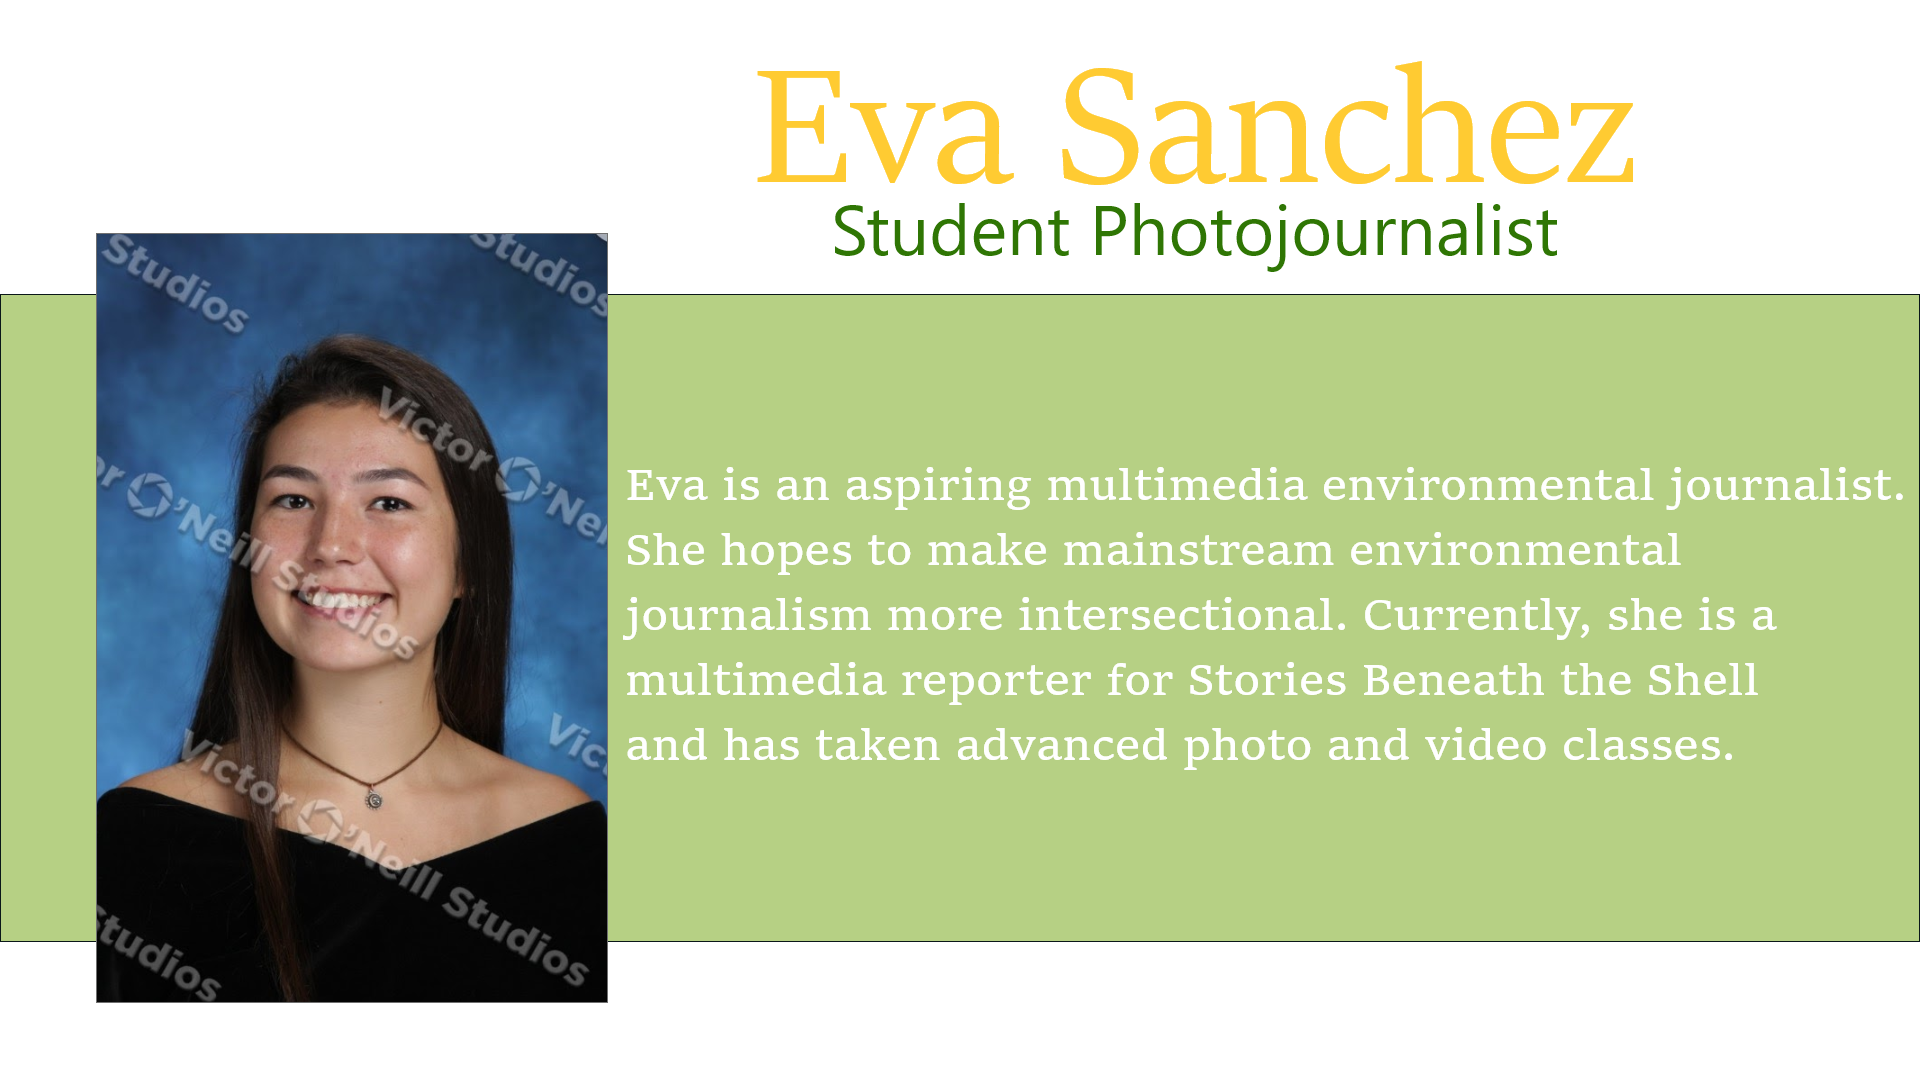
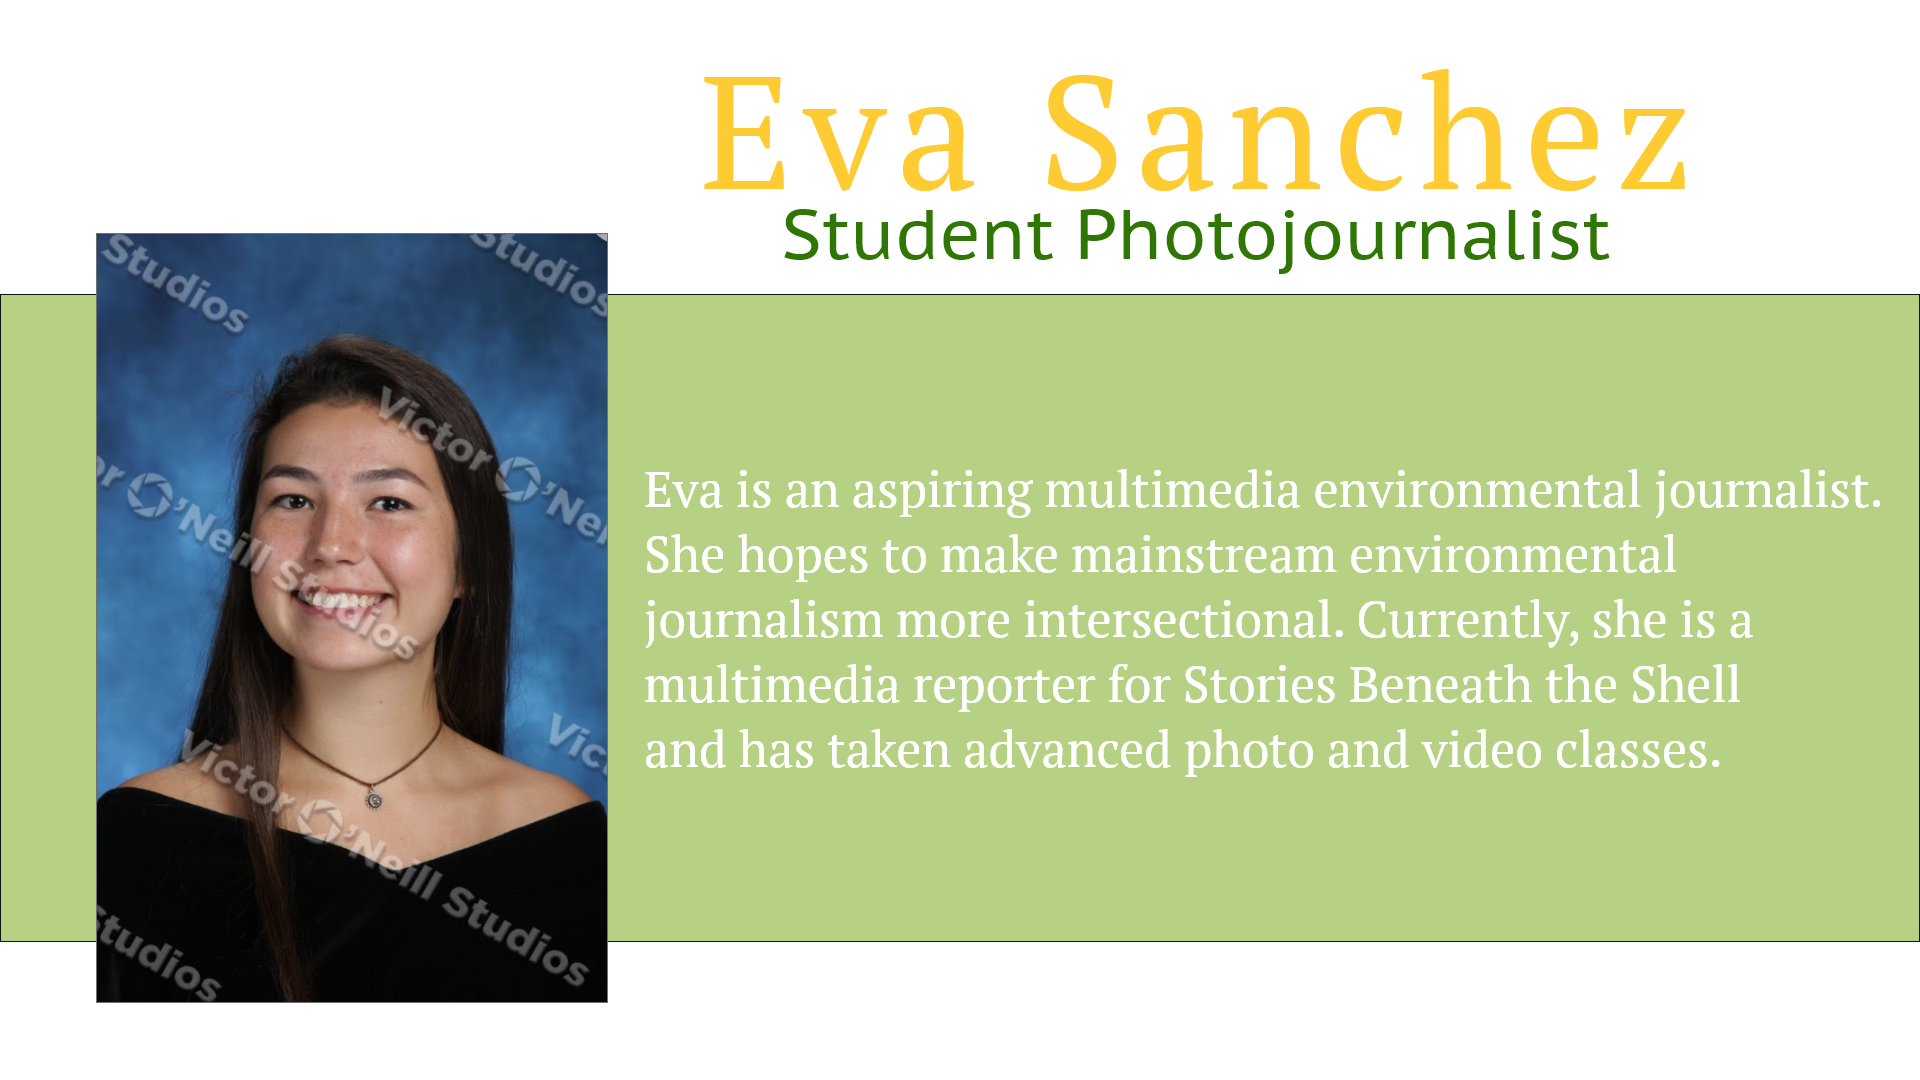
fonts and xd

Changed region(s): [[0.3125, 0.4278, 1.0, 0.7333], [0.375, 0.0611, 0.875, 0.2444]]

diff --git a/resume/eva-sanchez-resume.html/eva-sanchez-resume.html b/resume/eva-sanchez-resume.html/eva-sanchez-resume.html
@@ -11,6 +11,12 @@
 
 <link rel="stylesheet" type="text/css" href="style.css">
 
+<!--Fonts-->
+<link rel="preconnect" href="https://fonts.gstatic.com">
+
+<link href="https://fonts.googleapis.com/css2?family=PT+Serif&display=swap" rel="stylesheet">
+<link href="https://fonts.googleapis.com/css2?family=PT+Sans&family=PT+Serif&display=swap" rel="stylesheet">
+<!--End fonts-->
   </head>
 
   <body>
@@ -23,6 +29,9 @@
 
       <div class="collapse navbar-collapse" id="navbarSupportedContent">
         <ul class="navbar-nav mr-auto">
+          <li class="nav-item active">
+            <a class="nav-link" href="#">Education <span class="sr-only">(current)</span></a>
+          </li>
           <li class="nav-item active">
             <a class="nav-link" href="#">Experience <span class="sr-only">(current)</span></a>
           </li>
@@ -46,6 +55,67 @@
 <!--header and image -->
   <center><img src="Teeth.jpg" alt="Alligator teeth"  width="90%"></center>
 
+<!--XD-->
+
   <img src="eva.png" alt="My intro"  width="100%">
+
+<!--Education-->
+  <div class="sectionheader">Education:</div>
+  <div id="degrees">
+    <ul>
+      <li>Bachelor of Arts, Journalism from the University of Maryland - Expected Graduation: May 2022
+    </ul>
+  </div>
+
+
+  <div class="sectionheader">Experience:</div>
+    <div class="jobtitle">Show Host</div>
+      <div class="organization">WMUC Radio Station</div>
+        <div class="date">September 2018-Present</div>
+    <div class="description">
+      <ul>
+        <li>Broadcast an hour long news and music radio show every week (Local Girls Ruin Everything Wed 10pm)</li>
+        <li>Research news events and interesting topics for show, sources are credible and accurate</li>
+        <li>Manage shows social media, engage with fans and send out announcements about station related events</li>
+  </ul>
+  </div>
+      </ul>
+
+    <div class="jobtitle">Staff Writer</div>
+      <div class="organization">College Magazine</div>
+        <div class="date">October 2019-June 2020</div>
+    <div class="description">
+      <ul>
+        <li>Dedicate 10 hours weekly to writing and editing for the magazine, enhancing my time management abilities by balancing the internship and my schoolwork</li>
+        <li>Meet strict deadlines, practice active voice, interview and correspond with sources while actively learning social media and SEO tactics</li>
+        <li>Volunteer intensive, taking time to work closely with my senior editors</li>
+      </ul>
+    </div>
+
+    <div class="jobtitle">Academic Mentor</div>
+      <div class="organization">America Reads Program</div>
+        <div class="date">February 2020 - May 2020</div>
+    <div class="description">
+      <ul>
+        <li>Provide a strong academic experience for elementary school children in the Prince George’s County Public Schools and help to reduce the impact of the achievement gap</li>
+        <li>Plan detailed and engaging lessons for students who are struggling in reading, have reading disabilities and  English language learners</li>
+  <li>Every Monday and Wednesday from 7:30-10:30 a.m.</li>
+      </ul>
+    </div>
+
+
+  <div class="sectionheader">Skills:</div>
+  <div id="do">
+    <ul>
+      <li>Experienced in working a soundboard, managing an organization's social media, and coordinating events</li>
+      <li>Proficient in the following software: HTML, CSS, Javascript, Microsoft Office, and WordPress</li>
+      <li>Collaborates well with others in large and small group sessions</li>
+      <li>Comfortable working independently</li>
+      <li>Photo editing with Photoshop and Camera Raw</li>
+      <li>Video and audio editing with Premiere Pro</li>
+    </ul>
+  </div>
+
+  </div>
 
   </body>

diff --git a/resume/eva-sanchez-resume.html/style.css b/resume/eva-sanchez-resume.html/style.css
@@ -1,4 +1,17 @@
 #nav {
   background-color: B6D084;
   color:FFCB32;
-}
+    }
+
+.description {
+  font-family: 'PT Serif', serif;
+  color: #2F7604;
+    }
+
+.sectionheader {
+  font-family: 'PT Serif', serif;
+  color: #FFCB32;
+    }
+.jobtitle {
+  font-family: 'PT Sans', sans-serif;
+    }
